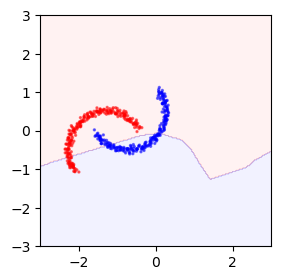
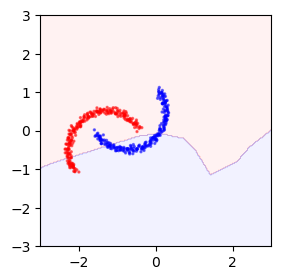
'submit'

diff --git a/synthetic/main.py b/synthetic/main.py
@@ -16,12 +16,11 @@ def parse_arguments():
     parser.add_argument('--tran', default=1.0, type=float)
     parser.add_argument('--sep', default=-0.5, type=float)
     parser.add_argument('--figdir', default=None, type=str)
-    parser.add_argument('--compare_tent_shot', default=False, type=str)
     args = parser.parse_args()
     return args
 
 
-def run_experiment(rot, tran, sep, figdir=None, seed=2021, compare_tent_shot=False):
+def run_experiment(rot, tran, sep, figdir=None, seed=2021):
     torch.manual_seed(seed)
     np.random.seed(seed)
 
@@ -29,7 +28,7 @@ def run_experiment(rot, tran, sep, figdir=None, seed=2021, compare_tent_shot=Fal
         os.mkdir(figdir)
 
     start = time.time()
-    result = np.zeros(7)
+    result = np.zeros(12)
 
     # Dataset
     (input_s, label_s, pretext_s), (input_t, label_t, pretext_t), corr = dataset.sample(rot, tran, sep)
@@ -66,83 +65,93 @@ def run_experiment(rot, tran, sep, figdir=None, seed=2021, compare_tent_shot=Fal
     with torch.no_grad():
         _, _, z_s = net(input_s)
         mu, sigma = algo.summarize(z_s)
-    
-    if compare_tent_shot == False:
-        # Explore the effects of Task Relation and Domain shift on TTT and TTT++
-        result[0:5] = [tran, rot, sep, corr.item(), acc[0].item()]
-        # TTT
-        net.load_state_dict(net_bkp, strict=True)
-        acc, net_state = algo.ttt_adapt(net, input_t, label_t, pretext_t,
-                           niter=50000, mu=mu, sigma=sigma,
-                           coef=[1.0, 0.0, 0.0])
-        print("TTT   Acc: {:.4f}".format(acc.item()))
-        result[5] = acc
 
-        if figdir:
-            net.load_state_dict(net_state, strict=True)
-            visualize.plot_prediction(input_t, label_t, net, 3, os.path.join(figdir, 'target_ttt.png'))
+    result[0:5] = [tran, rot, sep, corr.item(), acc[0].item()]
 
-        # TFA
-        # net.load_state_dict(net_bkp, strict=True)
-        # acc, _ = algo.adapt(
-        #              net, input_t, label_t, pretext_t,
-        #              mu, sigma, lr=1e-3, coef=[0.0, 0.1, 1.0])
-        # print("TFA   Acc: {:.4f}".format(acc.item()))
+    # TTT
+    net.load_state_dict(net_bkp, strict=True)
+    configure_model(net)
+    acc, net_state = algo.ttt_adapt(net, input_t, label_t, pretext_t,
+                       niter=50000, mu=mu, sigma=sigma,
+                       coef=[1.0, 0.0, 0.0])
+    print("TTT   Acc: {:.4f}".format(acc.item()))
+    result[5] = acc
 
-        # TTT++
-        net.load_state_dict(net_bkp, strict=True)
+    if figdir:
+        net.load_state_dict(net_state, strict=True)
+        visualize.plot_prediction(input_t, label_t, net, 3, os.path.join(figdir, 'target_ttt.png'))
 
-        acc, net_state = algo.ttt_adapt(net, input_t, label_t, pretext_t,
-                           niter=50000, mu=mu, sigma=sigma,
-                           coef=[1.0, 0.1, 1.0])
-        print("TTT++ Acc: {:.4f}".format(acc.item()))
-        result[6] = acc
+    # TTT++
+    net.load_state_dict(net_bkp, strict=True)
+    configure_model(net)
+    acc, net_state = algo.ttt_adapt(net, input_t, label_t, pretext_t,
+                                    niter=50000, mu=mu, sigma=sigma,
+                                    coef=[1.0, 0.1, 1.0])
+    print("TTT++ Acc: {:.4f}".format(acc.item()))
+    result[6] = acc
 
-        if figdir:
-            net.load_state_dict(net_state, strict=True)
-            visualize.plot_prediction(input_t, label_t, net, 3, os.path.join(figdir, 'target_ttt++.png'))
+    if figdir:
+        net.load_state_dict(net_state, strict=True)
+        visualize.plot_prediction(input_t, label_t, net, 3, os.path.join(figdir, 'target_ttt++.png'))
 
-    else:
-        # compare TTT++ with shot and tent
-        result[0:4] = [tran, rot, sep, acc[0].item()]
-        # TTT++
-        net.load_state_dict(net_bkp, strict=True)
-        configure_model(net)
-        acc, net_state = algo.ttt_adapt(net, input_t, label_t, pretext_t,
-                                        niter=50000, mu=mu, sigma=sigma,
-                                        coef=[1.0, 0.1, 1.0])
-        print("TTT++ Acc: {:.4f}".format(acc.item()))
-        result[4] = acc
+    # Tent (Shot Entropy)
+    net.load_state_dict(net_bkp, strict=True)
+    configure_model(net)
+    acc, net_state = algo.tent_adapt(net, input_t, label_t, pretext_t, niter=50000)
+    print("Tent Acc: {:.4f}".format(acc.item()))
+    result[7] = acc
 
-        if figdir:
-            net.load_state_dict(net_state, strict=True)
-            visualize.plot_prediction(input_t, label_t, net, 3, os.path.join(figdir, 'target_ttt++.png'))
+    if figdir:
+        net.load_state_dict(net_state, strict=True)
+        visualize.plot_prediction(input_t, label_t, net, 3, os.path.join(figdir, 'target_tent.png'))
 
-        # Tent
-        net.load_state_dict(net_bkp, strict=True)
-        configure_model(net)
-        acc, net_state = algo.tent_adapt(net, input_t, label_t, pretext_t)
-        print("Tent Acc: {:.4f}".format(acc.item()))
-        result[5] = acc
+    # Shot
+    net.load_state_dict(net_bkp, strict=True)
+    configure_model(net)
+    acc, net_state = algo.shot_adapt(net, input_t, label_t, pretext_t, niter=50000)
+    print("Shot Acc: {:.4f}".format(acc.item()))
+    result[8] = acc
 
-        if figdir:
-            net.load_state_dict(net_state, strict=True)
-            visualize.plot_prediction(input_t, label_t, net, 3, os.path.join(figdir, 'target_tent.png'))
+    if figdir:
+        net.load_state_dict(net_state, strict=True)
+        visualize.plot_prediction(input_t, label_t, net, 3, os.path.join(figdir, 'target_shot.png'))
 
-        # Shot
-        net.load_state_dict(net_bkp, strict=True)
-        configure_model(net)
-        acc, net_state = algo.shot_adapt(net, input_t, label_t, pretext_t)
-        print("Shot Acc: {:.4f}".format(acc.item()))
-        result[6] = acc
+    # Shot Diversity
+    net.load_state_dict(net_bkp, strict=True)
+    configure_model(net)
+    acc, net_state = algo.shot_adapt(net, input_t, label_t, pretext_t, niter=50000, coef=[0, 1.0, 0])
+    print("Shot_div Acc: {:.4f}".format(acc.item()))
+    result[9] = acc
+    if figdir:
+        net.load_state_dict(net_state, strict=True)
+        visualize.plot_prediction(input_t, label_t, net, 3, os.path.join(figdir, 'target_shot_div.png'))
 
-        if figdir:
-            net.load_state_dict(net_state, strict=True)
-            visualize.plot_prediction(input_t, label_t, net, 3, os.path.join(figdir, 'target_shot.png'))
+    # Shot Pseudo
+    net.load_state_dict(net_bkp, strict=True)
+    configure_model(net)
+    acc, net_state = algo.shot_adapt(net, input_t, label_t, pretext_t, niter=50000, coef=[0, 0, 1.0])
+    print("Shot_Pseudo Acc: {:.4f}".format(acc.item()))
+    result[10] = acc
+    if figdir:
+        net.load_state_dict(net_state, strict=True)
+        visualize.plot_prediction(input_t, label_t, net, 3, os.path.join(figdir, 'target_shot_pseudo.png'))
+
+    # Pseudo + Feature Alignment
+    net.load_state_dict(net_bkp, strict=True)
+    configure_model(net)
+    acc, net_state = algo.psefa_adapt(net, input_t, label_t, pretext_t,
+                                    niter=50000, mu=mu, sigma=sigma,
+                                    coef=[1e-3, 0.1, 1.0])
+    print("pse_fa Acc: {:.4f}".format(acc.item()))
+    result[11] = acc
+    if figdir:
+        net.load_state_dict(net_state, strict=True)
+        visualize.plot_prediction(input_t, label_t, net, 3, os.path.join(figdir, 'target_pse_fa.png'))
+
     print("Elapsed: {:.2f}s".format(time.time() - start))
     return result
 
 
 if __name__ == "__main__":
     args = parse_arguments()
-    run_experiment(args.rot, args.tran, args.sep, args.figdir, seed=2021, compare_tent_shot=args.compare_tent_shot)
+    run_experiment(args.rot, args.tran, args.sep, args.figdir, seed=2021)

diff --git a/synthetic/algo.py b/synthetic/algo.py
@@ -54,9 +54,8 @@ def ttt_adapt(net, x, y, a, niter=50000, mu=None, sigma=None, coef=[1.0, 0.1, 1.
     lr = 1e-3
     optimizer = optim.Adam(net.parameters(), lr=lr)
 
-    acc_main_best = 0.0
-    acc_main_ema = 0.0
-    acc_ssl_ema = 1.0
+    acc_best, _ = test(net, x, y, a)
+    net_bkp = copy.deepcopy(net.state_dict())
 
     for i in range(niter):
         _, os, z = net(x)
@@ -75,18 +74,13 @@ def ttt_adapt(net, x, y, a, niter=50000, mu=None, sigma=None, coef=[1.0, 0.1, 1.
 
         # save best result
         if i % 5 == 0:
-            acc = test(net, x, y, a)
-            acc_main_ema = acc_main_ema * 0.9 + acc[0] * 0.1
-            acc_ssl_ema = acc_ssl_ema * 0.9 + acc[1] * 0.1
-            if acc_main_best <= acc[0]:
-                acc_main_best = acc[0]
+            acc, _ = test(net, x, y, a)
+            if acc_best <= acc:
+                acc_best = acc
                 net_bkp = copy.deepcopy(net.state_dict())
 
-            # termination condition
-            if acc[0] > 0.999 or (acc[0] < acc_main_ema and acc[1] > acc_ssl_ema):
-                break
 
-    return acc_main_best, net_bkp
+    return acc_best, net_bkp
 
 def tent_adapt(net, x, y, a, niter=50000):
     # adapt model at test time
@@ -108,12 +102,12 @@ def tent_adapt(net, x, y, a, niter=50000):
 
     return acc_best, net_bkp
 
-def shot_adapt(net, x, y, a, niter=50000):
+def shot_adapt(net, x, y, a, niter=50000, coef=[1.0, 1.0, 1e-3]):
     ext = net.encoder
     classifier = net.cls
     # adapt model at test time
     lr = 1e-3
-    cls_par = 1e-3
+    cls_par = coef[2]
     optimizer = optim.Adam(net.parameters(), lr=lr)
     acc_best, _ = test(net, x, y, a)
     net_bkp = copy.deepcopy(net.state_dict())
@@ -132,9 +126,9 @@ def shot_adapt(net, x, y, a, niter=50000):
         classifier_loss = cls_par * nn.BCEWithLogitsLoss()(outputs_test, mem_label.unsqueeze(1).float())
 
         sigmoid_out = torch.sigmoid(outputs_test)
-        entropy_loss = torch.mean(Entropy(sigmoid_out))
-        msigmoid = sigmoid_out.mean(dim=0)
-        entropy_loss -= torch.sum(-msigmoid * torch.log(msigmoid + 1e-5))
+        entropy_loss = coef[0]*torch.mean(Entropy(sigmoid_out))
+        msigmoid = torch.mean(sigmoid_out)  # p_hat
+        entropy_loss -= coef[1]*Entropy(msigmoid)
 
         im_loss = entropy_loss
         classifier_loss += im_loss
@@ -152,3 +146,45 @@ def shot_adapt(net, x, y, a, niter=50000):
 
     return acc_best, net_bkp
 
+def psefa_adapt(net, x, y, a, niter=50000, mu=None, sigma=None, coef=[1e-3, 0.1, 1.0]):
+    ext = net.encoder
+    classifier = net.cls
+    # adapt model at test time
+    lr = 1e-3
+    optimizer = optim.Adam(net.parameters(), lr=lr)
+    acc_best, _ = test(net, x, y, a)
+    net_bkp = copy.deepcopy(net.state_dict())
+
+    for i in range(niter):
+        ext.eval()
+        # psedo labelling
+        mem_label = obtain_shot_label(x, ext, classifier)
+        mem_label = torch.from_numpy(mem_label)
+        ext.train()
+        optimizer.zero_grad()
+
+        features_test = ext(x)
+        outputs_test = classifier(features_test)
+
+        loss = coef[0] * nn.BCEWithLogitsLoss()(outputs_test, mem_label.unsqueeze(1).float())
+
+        # feature alignment
+        _, _, z = net(x)
+
+        loss_mean = linear_mmd(z.mean(axis=0), mu)
+        loss_coral = coral(covariance(z), sigma)
+
+        loss += loss_mean * coef[1] + loss_coral * coef[2]
+
+        optimizer.zero_grad()
+        loss.backward()
+        optimizer.step()
+
+        # save best result
+        if i % 5 == 0:
+            acc, _ = test(net, x, y, a)
+            if acc_best <= acc:
+                acc_best = acc
+                net_bkp = copy.deepcopy(net.state_dict())
+
+    return acc_best, net_bkp

diff --git a/synthetic/experiment.py b/synthetic/experiment.py
@@ -2,16 +2,17 @@
 import time
 import numpy as np
 import pandas as pd
-import main
+import main as main
 
 start = time.time()
-Results = np.zeros((5 * 5 * 5, 7))
+Results = np.zeros((9 * 5 * 6, 12))
 i = 0
-for tran in (0.2, 0.4, 0.6, 0.8, 1.0):
-    for rot in (30, 40, 50, 60, 70):
-        for sep in (-0.3, -0.4, -0.5, -0.6, -0.7):
+for tran in (0.1, 0.2, 0.3, 0.4, 0.5, 0.6, 0.7, 0.8, 0.9):
+    for rot in (10, 30, 50, 70, 90):
+        for sep in (-0.3, -0.4, -0.5, -0.6, -0.7, -0.8):
             print("tran:{0}   rot:{1},  sep:{2}".format(tran, rot, sep))
-            Results[i] = main.run_experiment(tran=tran, rot=rot, sep=sep, seed=2021, compare_tent_shot=True)
+            Results[i] = main.run_experiment(tran=tran, rot=rot, sep=sep, seed=2021)
             i += 1
-data = pd.DataFrame(Results, columns=['tran', 'rot', 'sep', 'test', 'ttt++', 'tent', 'shot'])
+data = pd.DataFrame(Results, columns=['tran', 'rot', 'sep', 'Relation', 'test', 'TTT', 'TTT++',
+                                      'TENT', 'SHOT', 'SHOT_div', 'SHOT_pseudo', 'pseudo+FA'])
 data.to_csv("docs/result.csv")

diff --git a/synthetic/shot_utils.py b/synthetic/shot_utils.py
@@ -9,8 +9,8 @@ def obtain_shot_label(inputs, ext, classifier):
         outputs = classifier(feas)
         all_fea = feas.float()
         all_output = outputs.float()
-    all_output = nn.Softmax(dim=1)(all_output)
-    _, predict = torch.max(all_output, 1)
+    all_output = torch.sigmoid(all_output)
+    all_output = torch.cat((1-all_output, all_output), 1)
 
     all_fea = torch.cat((all_fea, torch.ones(all_fea.size(0), 1)), 1)
     all_fea = (all_fea.t() / torch.norm(all_fea, p=2, dim=1)).t()
@@ -29,13 +29,11 @@ def obtain_shot_label(inputs, ext, classifier):
         initc = initc / (1e-8 + aff.sum(axis=0)[:, None])
         dd = cdist(all_fea, initc, 'cosine')
         pred_label = dd.argmin(axis=1)
-
     return pred_label.astype('int')
 
 def Entropy(input_):
-    bs = input_.size(0)
-    entropy = -input_ * torch.log(input_ + 1e-5)
-    entropy = torch.sum(entropy, dim=1)
+    # binary entropy
+    entropy = -input_ * torch.log(input_ + 1e-5) - (1 - input_) * torch.log(1 - input_ + 1e-5)
     return entropy
 
 def configure_model(net):

diff --git a/synthetic/tent.py b/synthetic/tent.py
@@ -43,7 +43,7 @@ class Tent(nn.Module):
 def sigmoid_entropy(x: torch.Tensor) -> torch.Tensor:
     """Entropy of sigmoid distribution from logits."""
     p = torch.sigmoid(x)
-    entropy = -(p * torch.log(p))
+    entropy = -p * torch.log(p + 1e-5) - (1-p) * torch.log(1 - p + 1e-5)
     return entropy
 
 
